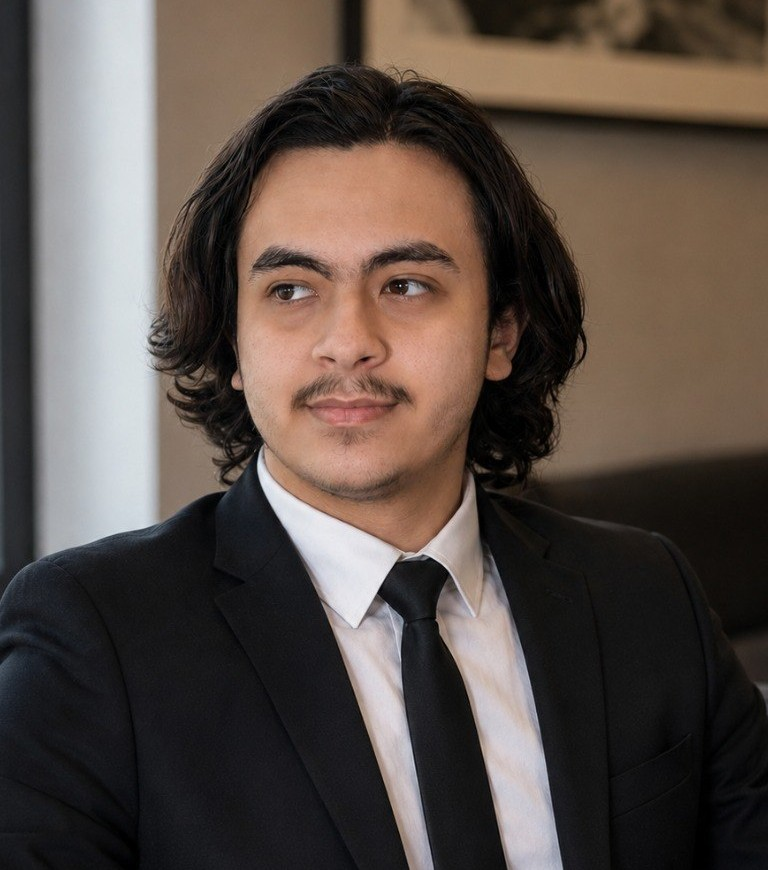
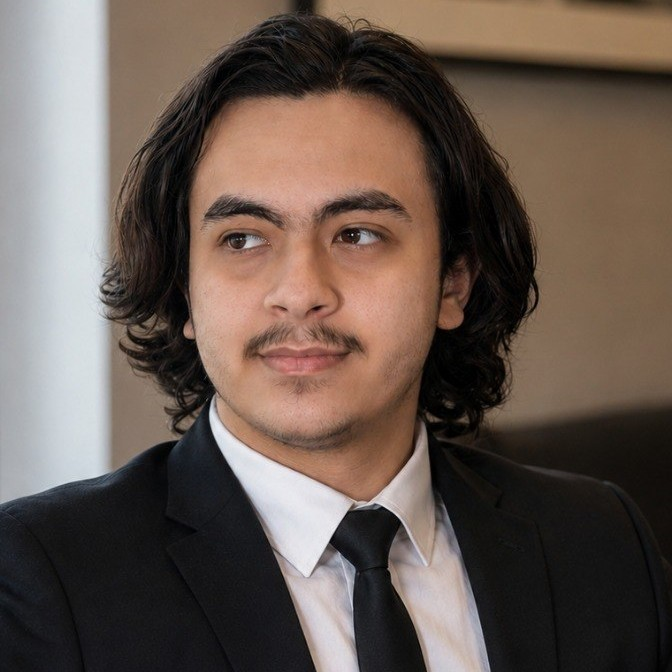
square half-body photo, fix caption translation

diff --git a/index.html b/index.html
@@ -63,7 +63,7 @@
         </p>
       </div>
       <div class="hero-art" id="heroArt">
-        <img class="portrait" src="assets/images/profile.jpg" alt="Portrait of Hashem Alkhaldy" width="768" height="870">
+        <img class="portrait" src="assets/images/profile.jpg" alt="Portrait of Hashem Alkhaldy" width="672" height="672">
         <p class="caption mono" data-i18n="hero.cap">Manama, Bahrain — GMT+3</p>
       </div>
     </section>

diff --git a/styles.css b/styles.css
@@ -118,8 +118,8 @@ a:hover { color: var(--signal); }
 
 .hero-art { justify-self: end; text-align: center; will-change: transform; }
 .portrait {
-  width: min(340px, 72vw);
-  aspect-ratio: 4 / 5;
+  width: min(320px, 70vw);
+  aspect-ratio: 1 / 1;
   object-fit: cover;
   object-position: top;
   border-radius: 22px;
